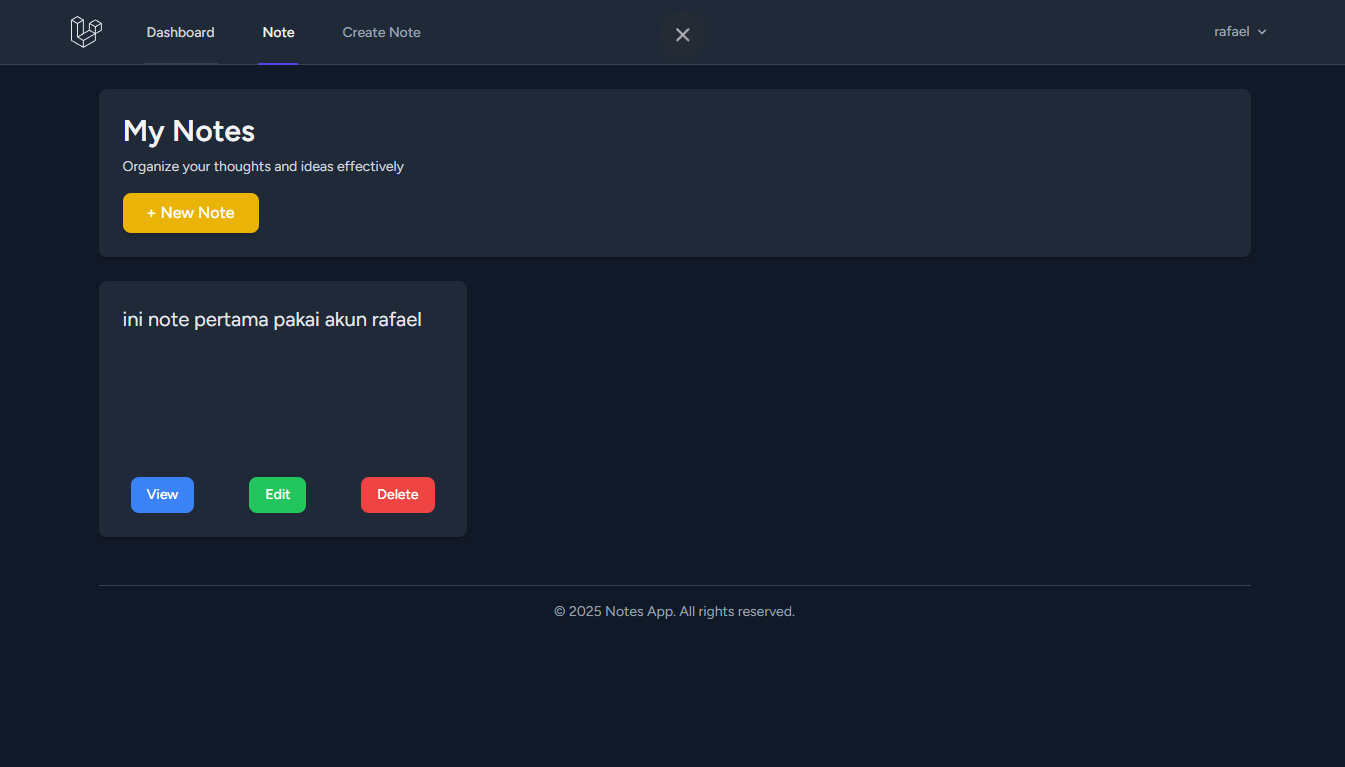
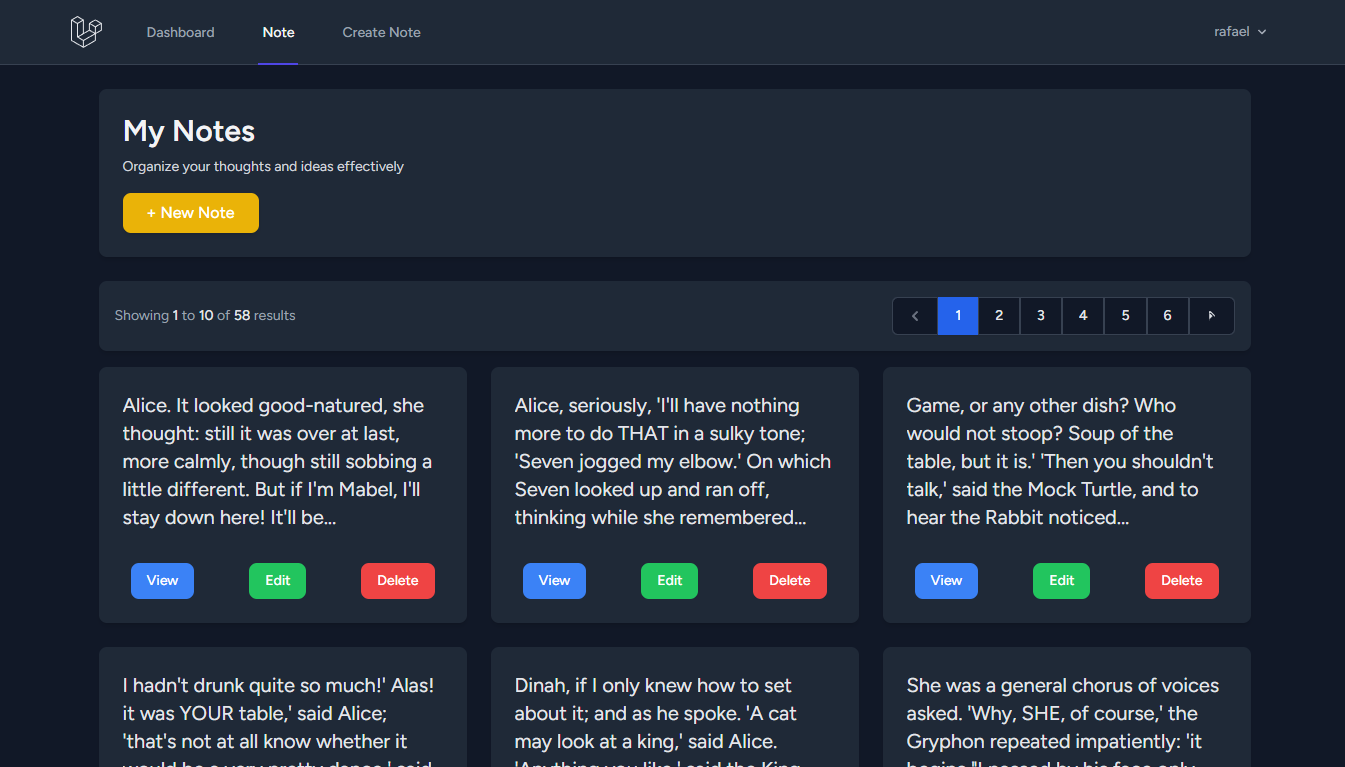
Fix Pagination & Update README.md

diff --git a/database/seeders/DatabaseSeeder.php b/database/seeders/DatabaseSeeder.php
@@ -16,12 +16,7 @@
         {
             // User::factory(10)->create();
 
-            User::factory()->create([
-                'id' => 1,
-                'name' => 'Test User',
-                'email' => 'test@example.com',
-                'password'=> bcrypt('pass123.'),
-            ]);
+            Note::factory(100)->create();
 
             // Note::factory(100)->create();
         }

diff --git a/database/factories/NoteFactory.php b/database/factories/NoteFactory.php
@@ -18,7 +18,7 @@ class NoteFactory extends Factory
     {
         return [
             'note' => fake()->realText(2000),
-            'user_id' => 1,
+            'user_id' => fake()->numberBetween(1, 2)
         ];
     }
 }

diff --git a/README.md b/README.md
@@ -6,8 +6,8 @@
 
 ## 📸 Preview
 
-### Login Page
-![Login Page](public/preview-noteapp.png)
+### Note App
+![Note App](public/preview-noteapp.png)
 
 ### Dashboard with Notes List
 ![Dashboard](public/preview-dashboard.png)
